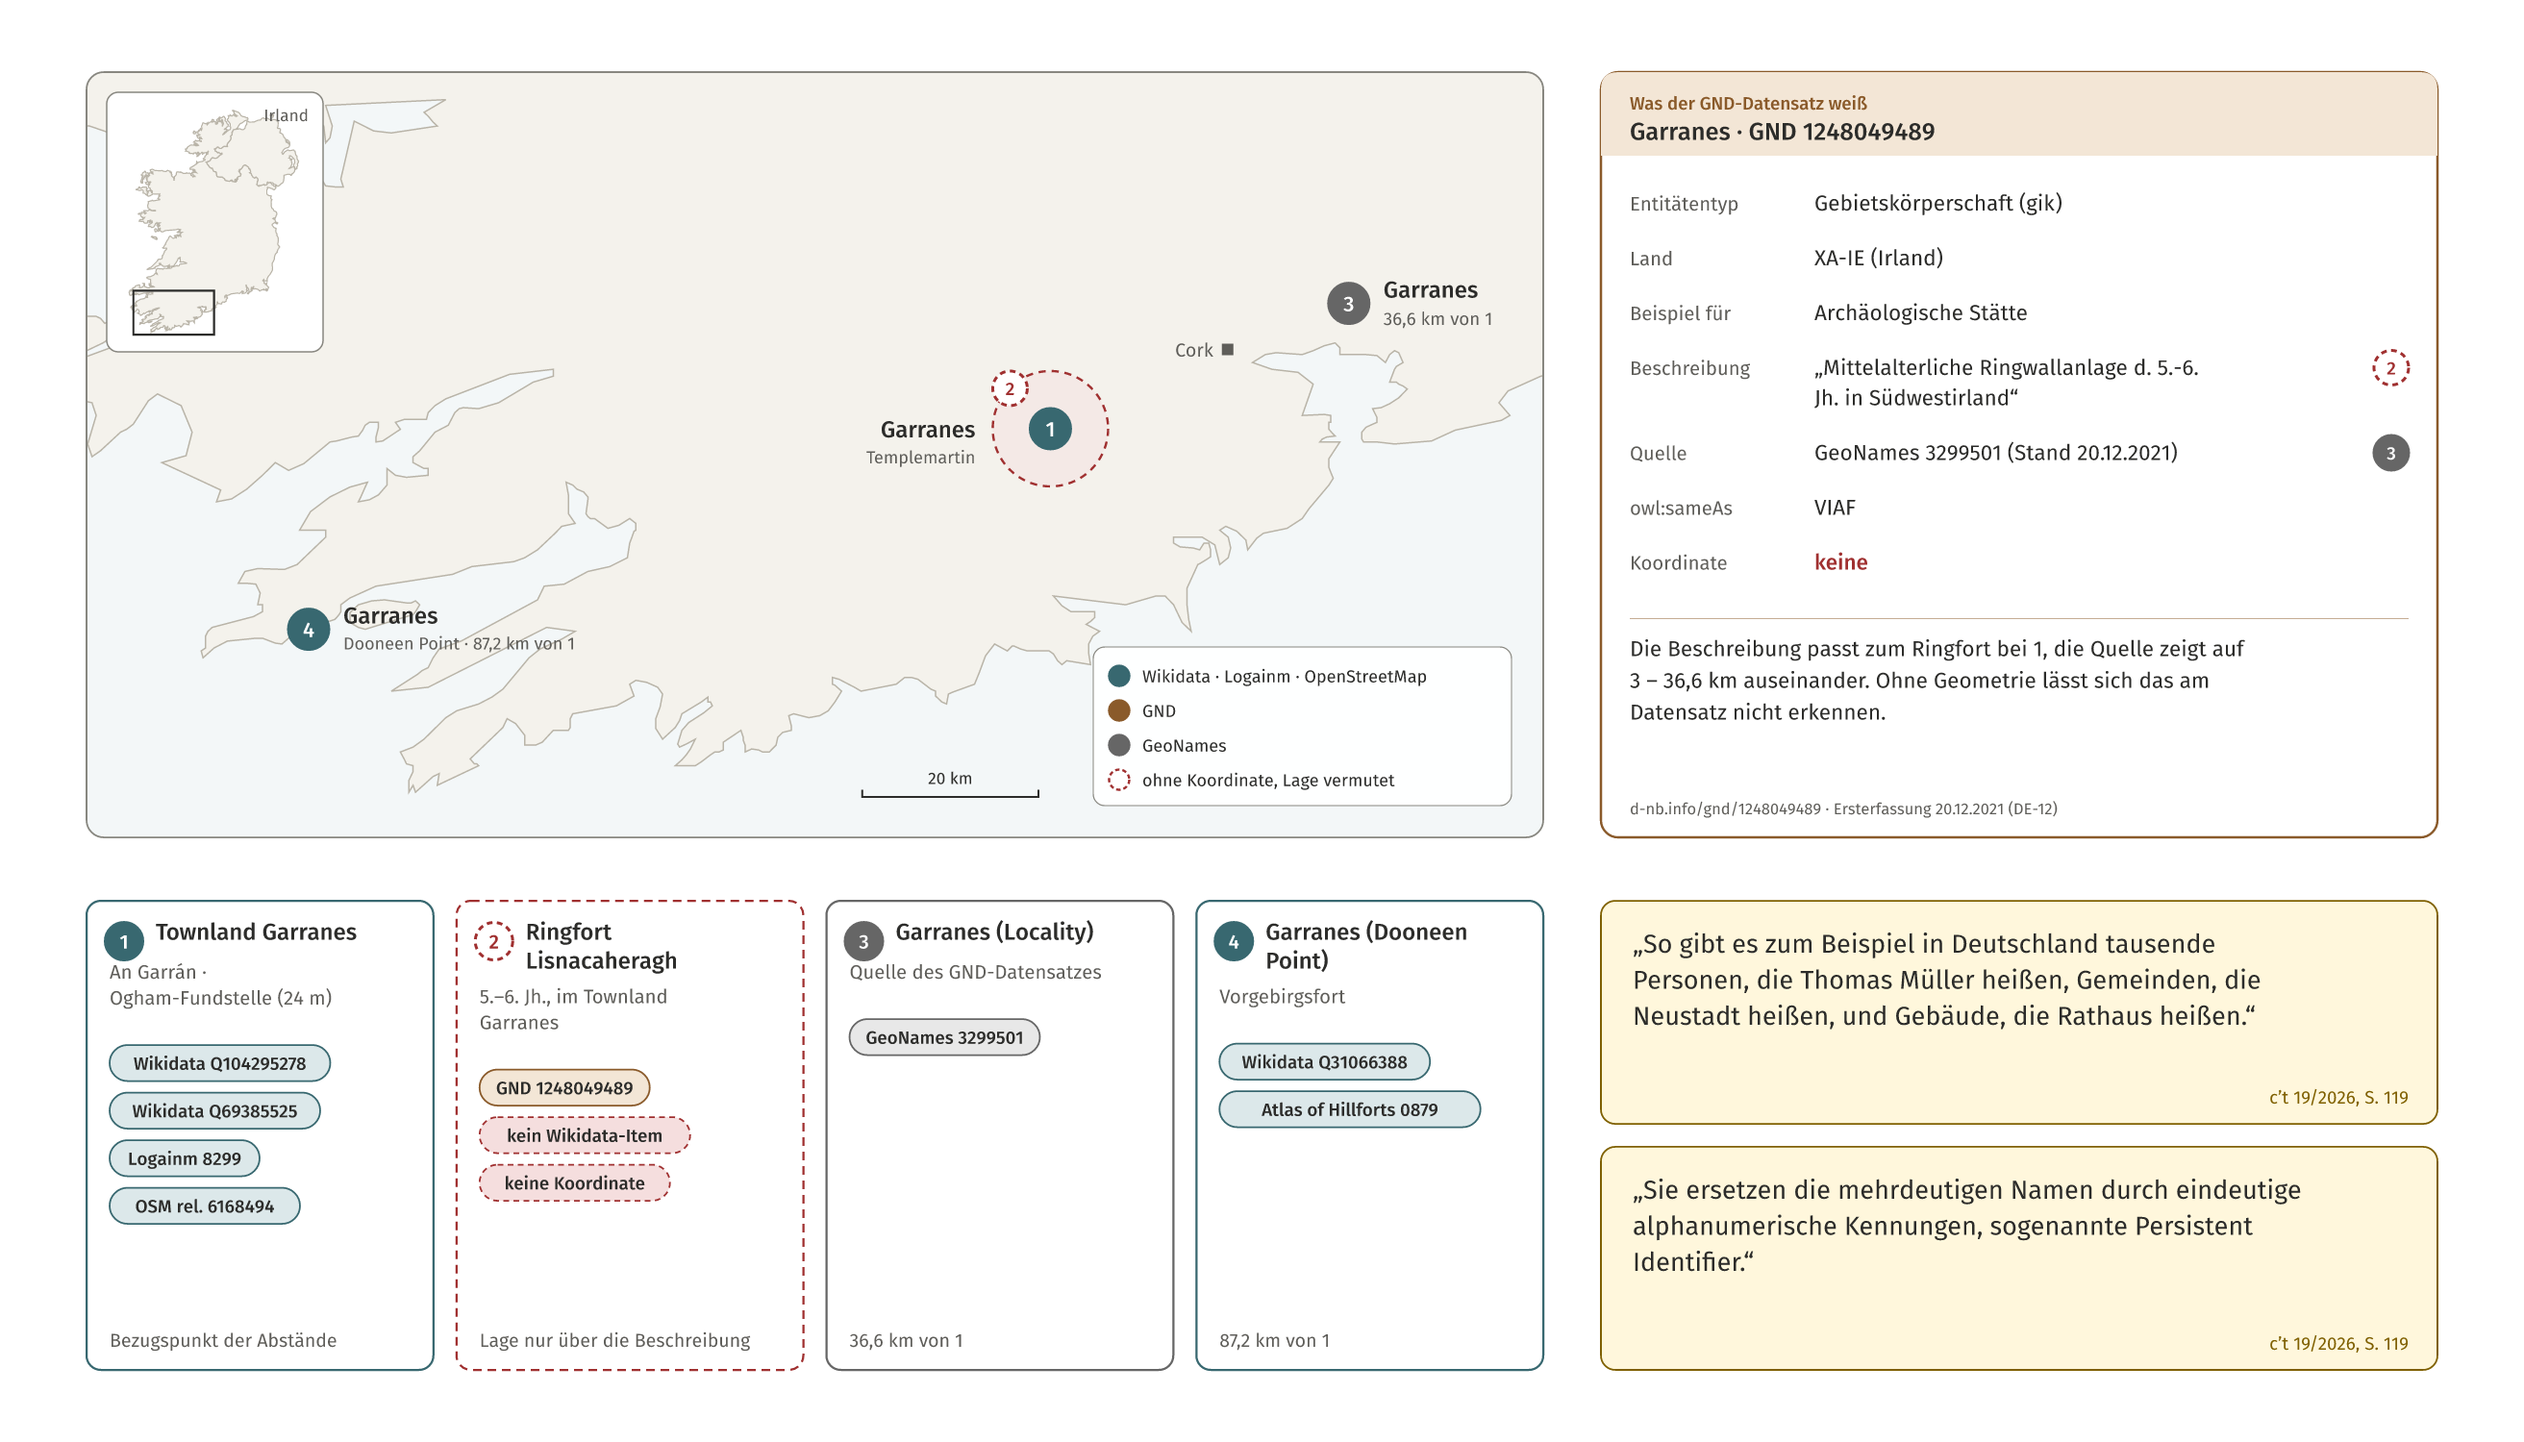
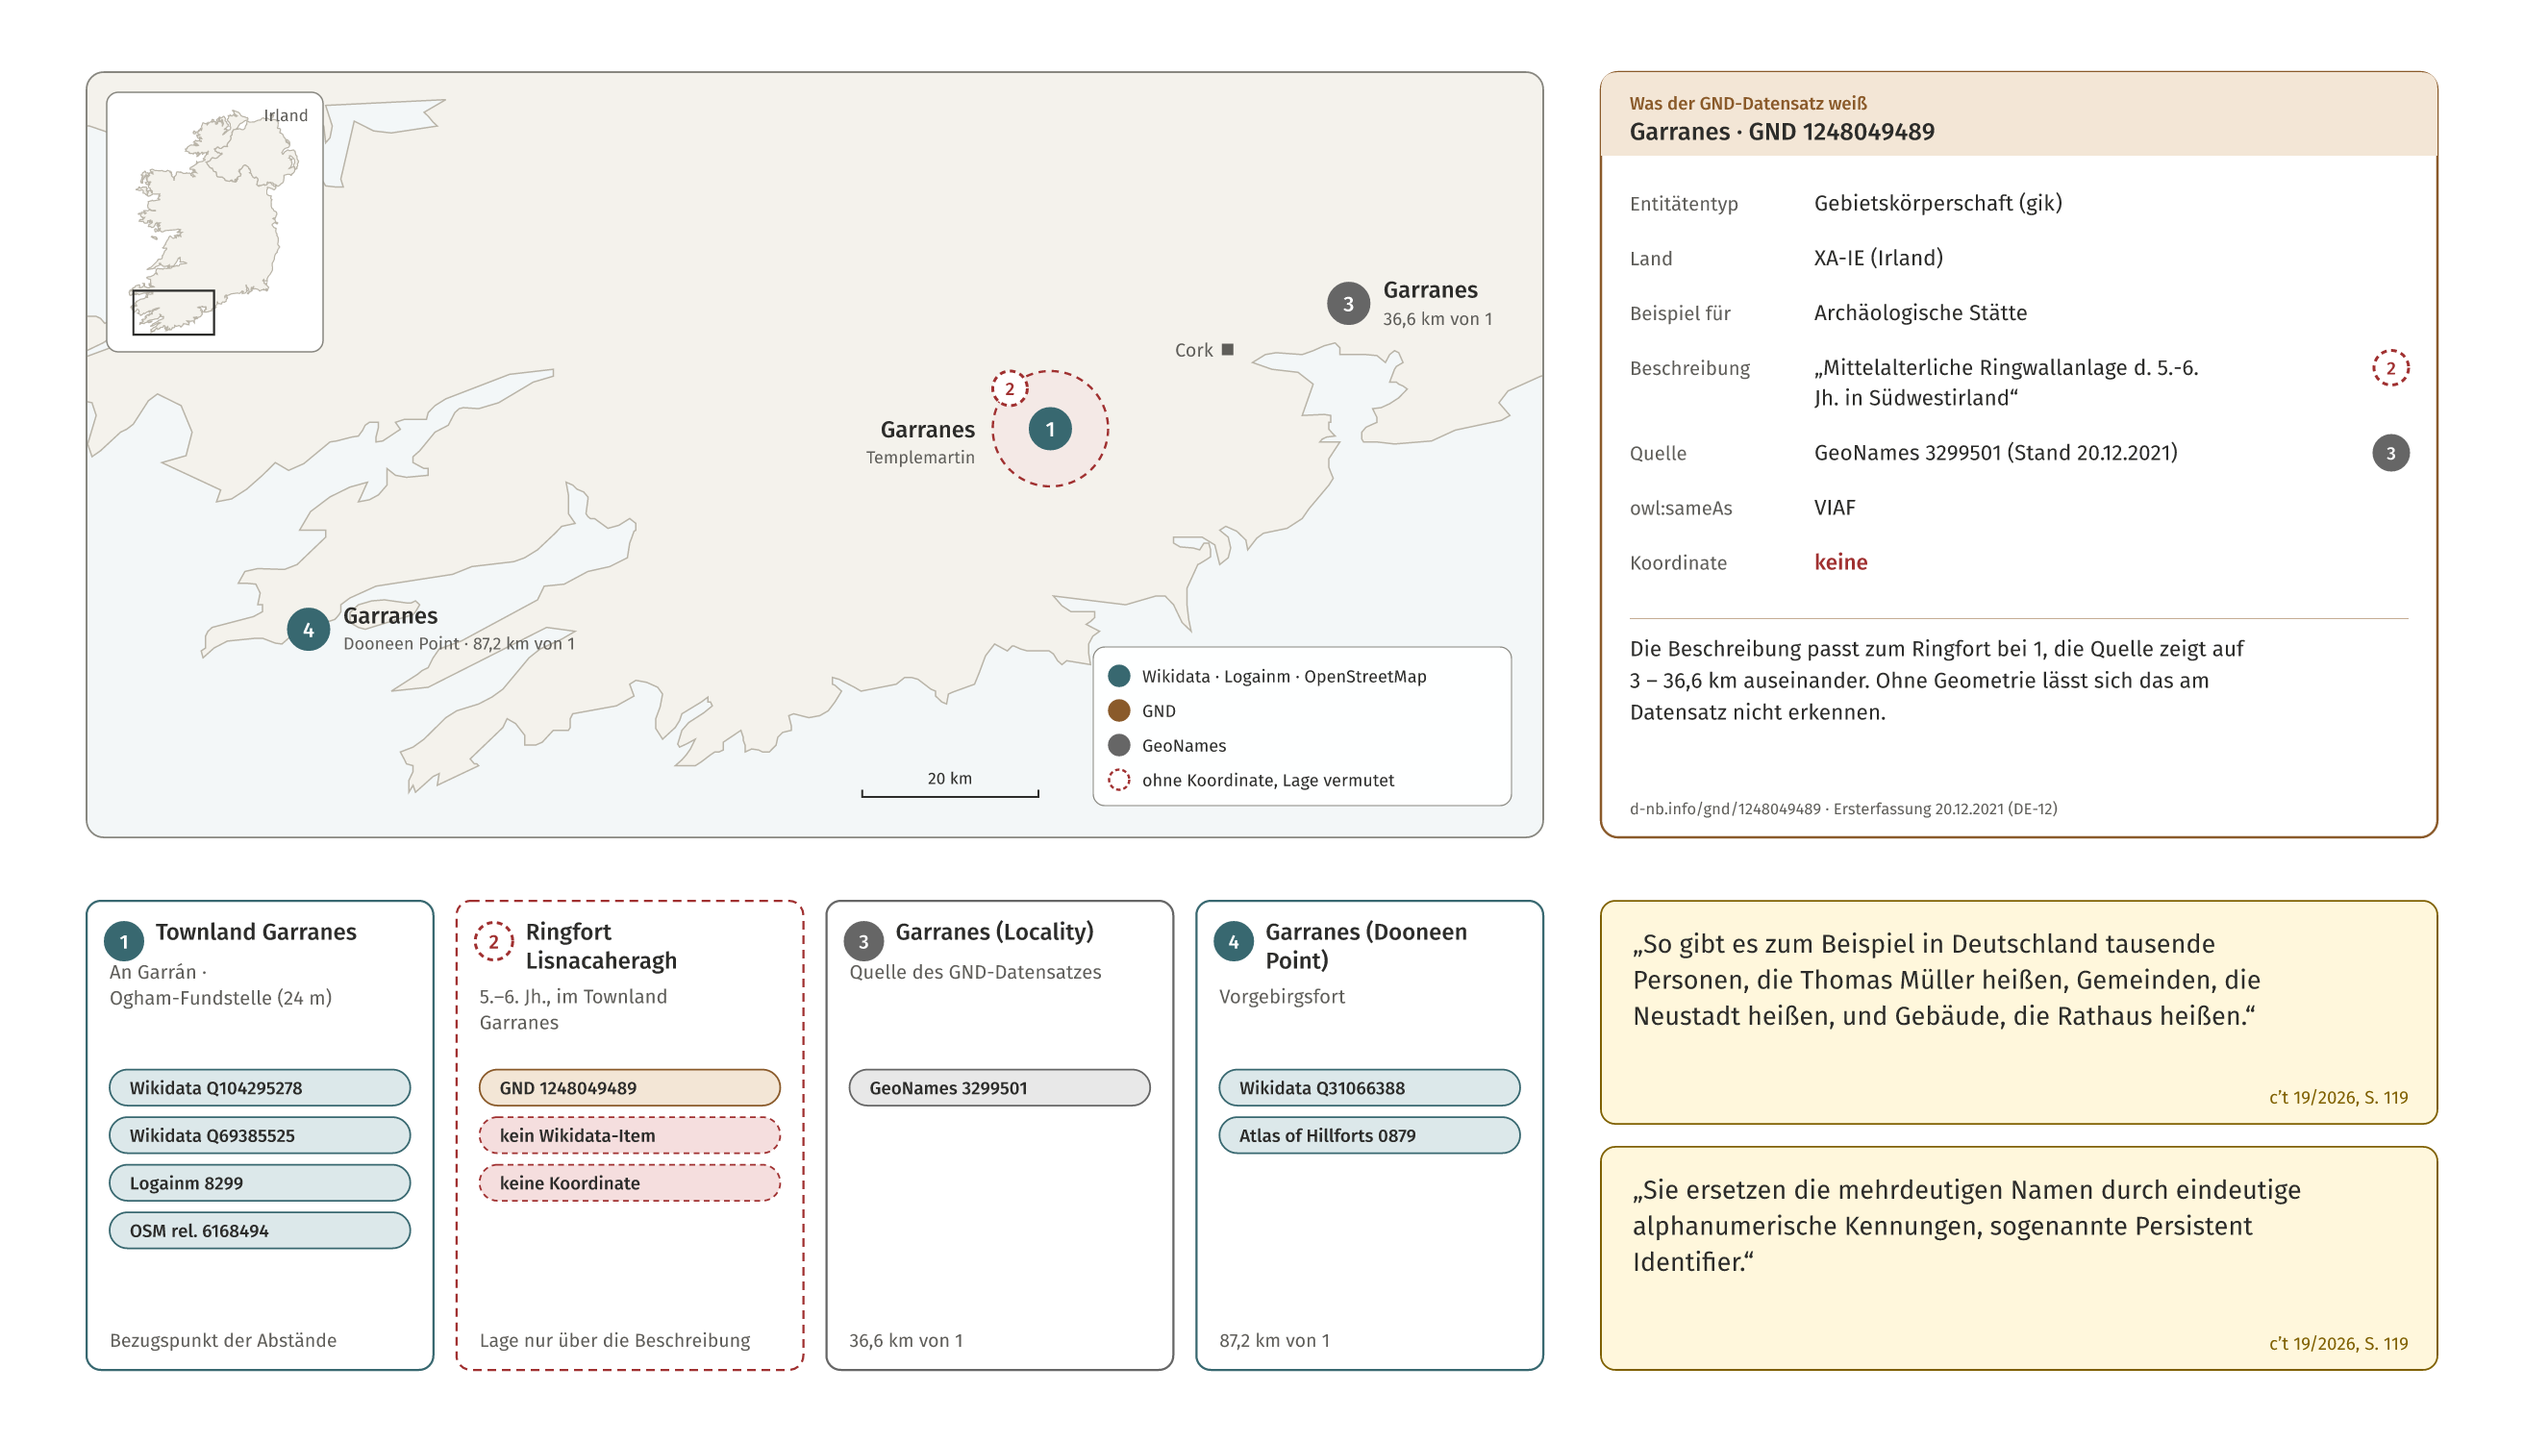
Align identifier chips in figure 01
Chips take the full card width with labels flush left and start on one common line across the four candidate cards, so the identifier columns can be compared at a glance.

PRIMER records the iteration and adds the case-study figures (Ogham, Holy Wells, geo-lod, bb-5kbc, poseidon2lod) as S5-S9; CITATION.cff points to the actual repository.

Changed region(s): [[0.0312, 0.7053, 0.3124, 0.8893], [0.4686, 0.7053, 0.6248, 0.828], [0.3436, 0.7053, 0.4061, 0.7667]]

diff --git a/py/step_01_ein_name_viele_orte.py b/py/step_01_ein_name_viele_orte.py
@@ -324,6 +324,14 @@ def _candidate_cards(parts: list[str], d: dict, lang: str) -> None:
     gap = 16
     cw = (MAP_W - 3 * gap) / 4
     ch = vu.CONTENT_Y1 - BOTTOM_Y
+    # first pass: where does each card's text end? Chips then start on one
+    # common line across all four cards, so the chip columns align.
+    text_end = []
+    for num, colors, dashed, title, sub, chips, foot in cards:
+        ty = BOTTOM_Y + 27 + 20 * len(vu.wrap_lines(title, cw - 60, 16))
+        ty = max(ty, BOTTOM_Y + 50) + 4
+        text_end.append(ty + 18 * len(vu.wrap_lines(sub, cw - 32, 13.5)))
+    chip_y0 = max(text_end) + 10
     for i, (num, colors, dashed, title, sub, chips, foot) in enumerate(cards):
         x = MAP_X + i * (cw + gap)
         y = BOTTOM_Y
@@ -336,9 +344,10 @@ def _candidate_cards(parts: list[str], d: dict, lang: str) -> None:
         sb, ny = vu.svg_text_block(x + 16, max(ny, y + 50) + 4, sub, cw - 32, size=13.5, line_h=18,
                                    color=vu.TEXT_MUTED)
         parts.append(sb)
-        cy = ny + 10
+        cy = chip_y0
         for label, c, dsh in chips:
-            chip, _ = vu.svg_chip(x + 16, cy, label, c, dashed=dsh, size=12.5, h=25)
+            chip, _ = vu.svg_chip(x + 16, cy, label, c, dashed=dsh, size=12.5, h=25,
+                                  width=cw - 32, align="start", pad=14)
             parts.append(chip)
             cy += 33
         parts.append(vu.svg_text(x + 16, y + ch - 16, foot, size=13, color=vu.TEXT_MUTED, italic=True))

diff --git a/py/hdoku26_visuals_utils.py b/py/hdoku26_visuals_utils.py
@@ -576,14 +576,20 @@ def svg_text_block(x: float, y: float, s: str, max_width: float, *, size: float 
 
 
 def svg_chip(x: float, y: float, label: str, colors: dict, *, size: float = 11.5,
-             h: float = 22, dashed: bool = False, pad: float = 10) -> tuple[str, float]:
-    """A rounded identifier chip ("Wikidata Q104295278"); returns (markup, width)."""
-    w = text_width(label, size) + 2 * pad
+             h: float = 22, dashed: bool = False, pad: float = 10,
+             width: float | None = None, align: str = "middle") -> tuple[str, float]:
+    """A rounded identifier chip ("Wikidata Q104295278"); returns (markup, width).
+
+    ``width`` fixes the chip width (so a column of chips lines up); by default
+    it hugs the label. ``align="start"`` sets the label flush left at ``pad``.
+    """
+    w = width if width is not None else text_width(label, size) + 2 * pad
     dash = ' stroke-dasharray="4 3"' if dashed else ""
+    tx = x + pad if align == "start" else x + w / 2
     markup = (f'<rect x="{x:.1f}" y="{y:.1f}" width="{w:.1f}" height="{h}" rx="{h/2:.1f}" '
               f'fill="{colors["fill"]}" stroke="{colors["stroke"]}" stroke-width="1.2"{dash}/>\n'
-              + svg_text(x + w / 2, y + h / 2 + 0.5, label, size=size, weight=500,
-                         anchor="middle", baseline="central"))
+              + svg_text(tx, y + h / 2 + 0.5, label, size=size, weight=500,
+                         anchor=align, baseline="central"))
     return markup, w
 
 

diff --git a/PRIMER.md b/PRIMER.md
@@ -66,7 +66,10 @@ Eigenschaften:
 | bb-5kbc, geo-lod, poseidon2lod | nicht in diesen Grafiken; eigene Case-Study-Folien nach Ogham und Holy Wells | 2026-09-22 |
 | Stil | wie bb-5kbc-visuals; Palette: GND ocker, Community-Hubs petrol, GeoNames grau, „ohne Koordinate“ rot gestrichelt, Zitate amber | 2026-09-22 |
 | Zitate | pro Grafik gemeinsam auswählen; Grafik 1: A1 + A2 (Autorentext S. 119) | Vorschlag |
-| Repo-Name | `hdoku26-visuals` | Vorschlag |
+| Repo-Name | `hdoku26-visuals` (github.com/florianthiery/hdoku26-visuals) | 2026-09-22 |
+| Kennungs-Tags in Karten | alle gleich breit (volle Kartenbreite), Text linksbündig, gemeinsame Startlinie über alle Karten einer Reihe | 2026-09-22 |
+| Case Studies | gleiche Bildsprache wie Grafik 1–3, je eine Grafik: Ogham (2 Steine), Holy Wells (2 Brunnen), geo-lod, bb-5kbc, poseidon2lod | 2026-09-22 |
+| Reihenfolge | Grafik 2, dann 3, dann die Case Studies | 2026-09-22 |
 
 ### A5 Was in welchem Chat hochgeladen wird
 
@@ -84,11 +87,16 @@ Dazu bei Bedarf das c't-PDF (nicht ins Repo).
 |---|---|---|---|
 | S0 | Festlegungen (Grafikfolge, Leitbeispiel, Palette) | — | erledigt 2026-09-22 |
 | S1 | Skelett: main.py, Utils, Daten, Lizenz | S0 | erledigt 2026-09-22 |
-| S2 | Grafik 1 „Ein Name, viele Orte“ | S1 | Entwurf 2026-09-22, Iteration offen |
+| S2 | Grafik 1 „Ein Name, viele Orte“ | S1 | erledigt 2026-09-22 (Iteration 2: Tags) |
 | S3 | Grafik 2 „Zukunft: Wikibase-Konvergenz“ | S1 | offen |
 | S4 | Grafik 3 „Die Nische ist der Hub“ | S1 | offen |
+| S5 | Case Study Ogham (2 Steine) | S1 | offen |
+| S6 | Case Study Holy Wells (2 Brunnen) | S1 | offen |
+| S7 | Case Study geo-lod (SISAL-Höhlen, CI-Tephra) | S1 | offen |
+| S8 | Case Study bb-5kbc (Brandenburg/Westpolen) | S1 | offen |
+| S9 | Case Study poseidon2lod (aDNA) | S1 | offen |
 
-S3 und S4 sind unabhängig von S2 und voneinander.
+S3–S9 hängen nur vom Skelett ab; Reihenfolge laut A4: S3, S4, dann S5–S9.
 
 ---
 
@@ -100,6 +108,11 @@ S3 und S4 sind unabhängig von S2 und voneinander.
 
 **Abnahme:** Alle IDs/Zahlen aus `data/raw/`; Abstände gerechnet (36,6 / 87,2 km, 24 m); keine Überlappungen in DE und EN; keine Diagonalen; zweiter Lauf byte-identisch.
 
+#### Erledigt 2026-09-22
+
+- Iteration 1 committed (github.com/florianthiery/hdoku26-visuals).
+- Iteration 2: Kennungs-Tags gleich breit und linksbündig (`svg_chip(width=, align="start")`), gemeinsame Startlinie der Tags über alle vier Karten.
+
 ### S3 — Grafik 2 „Zukunft“
 
 **Ziel:** links GND (GNDplus Z2/Z3, Geodaten-Modul P3, steuerbare Offenheit Z4), rechts föderiertes Wikibase-Ökosystem am CIIC 81 (Wikidata, FactGrid, Semantic Kompakkt, fuzzy-sl) und Semantic OSM, Mitte DNB-Wikibase seit 2019 + WikiLibrary-Manifest (P4), gemeinsames Ziel (Z6).
@@ -109,6 +122,14 @@ S3 und S4 sind unabhängig von S2 und voneinander.
 ### S4 — Grafik 3 „Die Nische ist der Hub“
 
 **Ziel:** Mini-Wissensgraph Townland Garranes (Wikidata–Logainm–OSM, GND gestrichelt „Anschluss nach Identitätsklärung“), Holy Well als zweiter Teilgraph, VGI-Band, Crossys/TRAIL 2.5 als Fundament; Z7/Z8 als geteilter Anspruch, Z9 als Schluss.
+
+**Abnahme:** wie S2.
+
+### S5–S9 — Case Studies
+
+**Ziel:** je eine Grafik pro Case Study in derselben Bildsprache (Palette, Tags, Nummern-Marker, c't-Bezug wo er trägt): Ogham mit zwei Steinen (u. a. CIIC 81: Fundort Garranes vs. Standort UCC Cork, zwei Koordinaten mit Rang), Holy Wells mit zwei Brunnen (u. a. St. Lachtain's Well Q121840779), geo-lod, bb-5kbc, poseidon2lod.
+
+**Uploads:** Entity-JSON/OSM-XML der gewählten Objekte; für S7–S9 die jeweiligen Repo-ZIPs (liegen im Abstract-Chat vor).
 
 **Abnahme:** wie S2.
 
